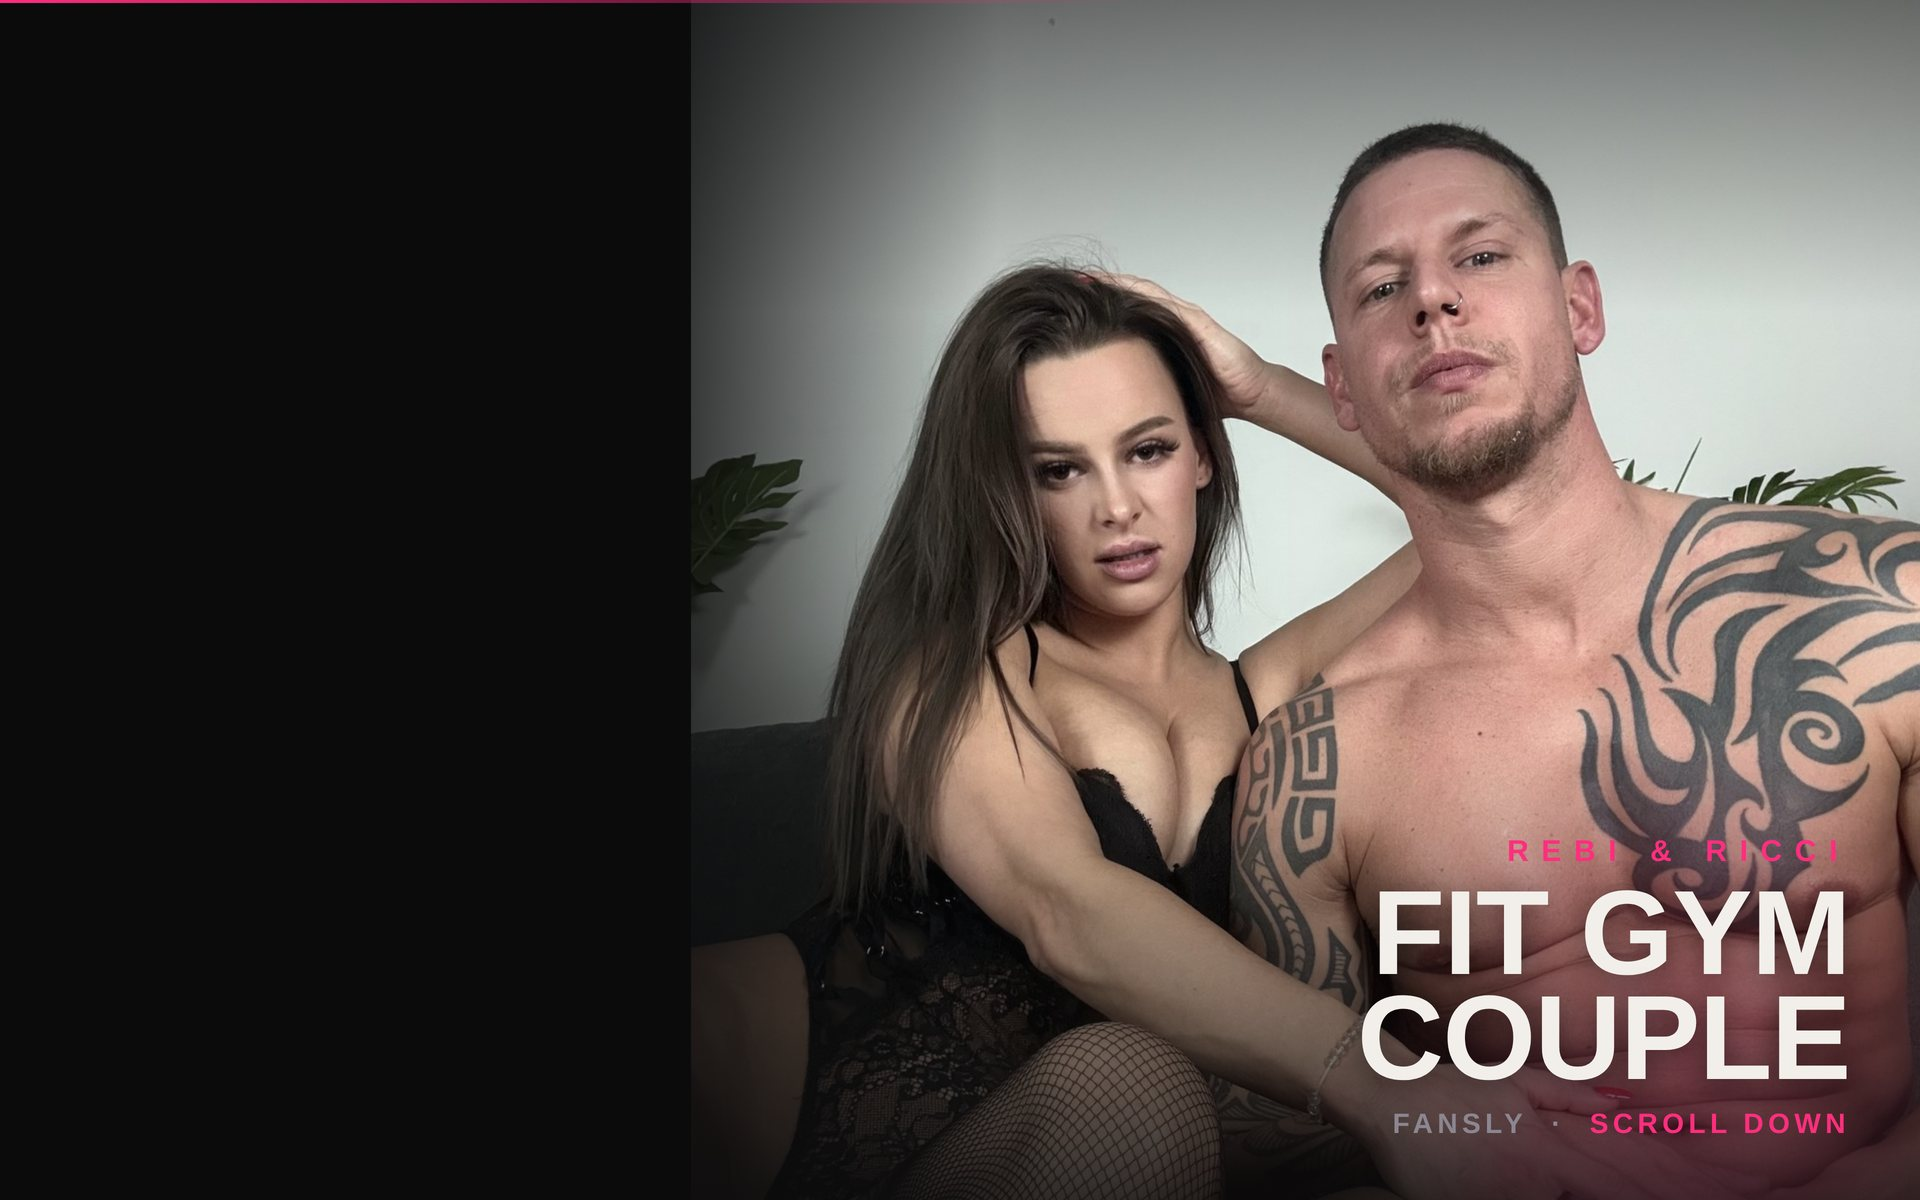
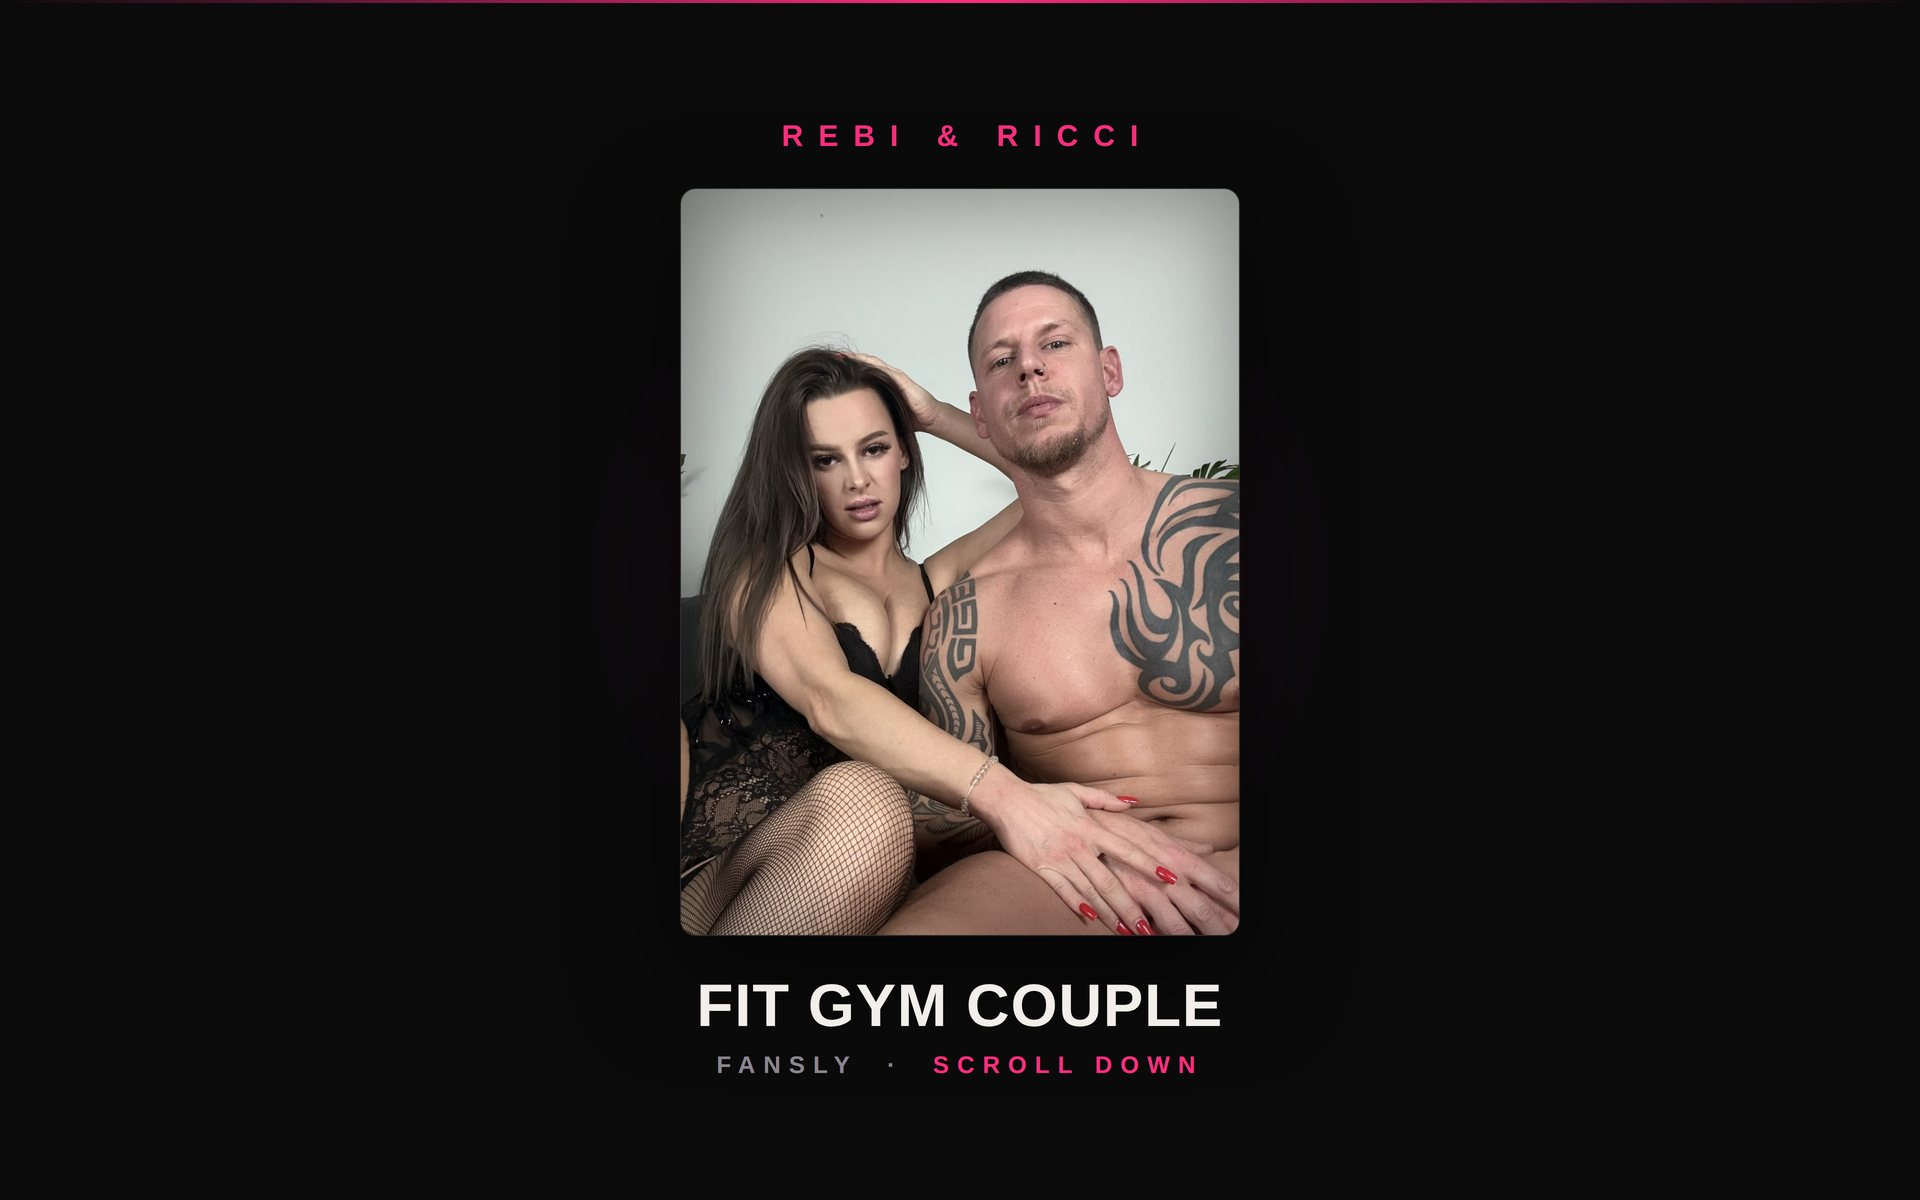
Refine 3-block bio: centered hero card, lighter block 2, cleaner layout
Claude-Session: https://claude.ai/code/session_01RtbiUYFNdswaq59EqqYNLn

diff --git a/fg-solo.html b/fg-solo.html
@@ -3,28 +3,29 @@
 <link rel="preconnect" href="https://fonts.googleapis.com"><link rel="preconnect" href="https://fonts.gstatic.com" crossorigin>
 <link href="https://fonts.googleapis.com/css2?family=Barlow+Condensed:wght@500;600;700&family=Archivo:wght@400;500;600&display=swap" rel="stylesheet">
 <style>
-  :root{--panel:#0B0B0C;--line:#232326;--warm:#F2EFEA;--mute:#8b8690;--hot:#FF2E7E;}
+  :root{--warm:#F2EFEA;--mute:#8b8690;--hot:#FF2E7E;--line:rgba(242,239,231,.12);}
   *{box-sizing:border-box;margin:0;padding:0;}
-  .bar{width:1920px;height:980px;display:flex;background:var(--panel);overflow:hidden;font-family:'Archivo',sans-serif;color:var(--warm);}
-  .phwrap{flex:0 0 42%;position:relative;}
-  .phwrap img{position:absolute;inset:0;width:100%;height:100%;object-fit:cover;object-position:center 20%;
-    -webkit-mask-image:linear-gradient(270deg,transparent 0%,rgba(0,0,0,.4) 22%,#000 50%);mask-image:linear-gradient(270deg,transparent 0%,rgba(0,0,0,.4) 22%,#000 50%);}
-  .txt{flex:1;padding:82px 300px 82px 70px;display:flex;flex-direction:column;justify-content:center;}
-  .eyebrow{font-family:'Barlow Condensed',sans-serif;font-weight:600;font-size:26px;letter-spacing:.36em;text-transform:uppercase;color:var(--hot);margin-bottom:22px;}
-  h1{font-family:'Barlow Condensed',sans-serif;font-weight:700;font-size:92px;line-height:.94;letter-spacing:-.01em;text-transform:uppercase;}
-  .handle{margin-top:26px;font-family:'Barlow Condensed',sans-serif;font-weight:700;font-size:34px;letter-spacing:.02em;color:var(--warm);}
-  .handle span{color:var(--mute);font-weight:600;font-size:23px;letter-spacing:.16em;text-transform:uppercase;display:block;margin-bottom:4px;}
-  .tap{margin-top:22px;display:inline-flex;align-items:center;gap:12px;align-self:flex-start;background:var(--hot);color:#0B0B0C;font-family:'Barlow Condensed',sans-serif;font-weight:700;font-size:28px;letter-spacing:.08em;text-transform:uppercase;padding:16px 30px;border-radius:8px;}
-  .sched{margin-top:44px;border-top:1px solid var(--line);padding-top:30px;}
-  .sched .lab{font-family:'Barlow Condensed',sans-serif;font-weight:600;font-size:24px;letter-spacing:.28em;text-transform:uppercase;color:var(--hot);margin-bottom:20px;}
-  .sched .row{display:flex;justify-content:space-between;align-items:baseline;padding:12px 0;border-bottom:1px solid var(--line);}
+  /* block 3 — stays on black */
+  .bar{width:1920px;height:980px;display:flex;align-items:stretch;background:#0B0B0C;font-family:'Archivo',sans-serif;color:var(--warm);}
+  .media{flex:0 0 40%;padding:70px 40px 70px 120px;display:flex;}
+  .card{flex:1;position:relative;border-radius:18px;overflow:hidden;border:1px solid rgba(242,239,231,.12);box-shadow:0 40px 90px rgba(0,0,0,.6);}
+  .card .ph{position:absolute;inset:0;background:url('assets/bio/solo-src.jpg') center 18%/cover no-repeat;}
+  .txt{flex:1;padding:92px 300px 92px 76px;display:flex;flex-direction:column;justify-content:center;}
+  .eyebrow{font-family:'Barlow Condensed',sans-serif;font-weight:600;font-size:25px;letter-spacing:.42em;text-transform:uppercase;color:var(--hot);margin-bottom:26px;}
+  h1{font-family:'Barlow Condensed',sans-serif;font-weight:700;font-size:80px;line-height:.96;text-transform:uppercase;}
+  .handle{margin-top:26px;font-family:'Barlow Condensed',sans-serif;font-weight:700;font-size:36px;letter-spacing:.02em;color:var(--warm);}
+  .handle span{color:var(--mute);font-family:'Barlow Condensed',sans-serif;font-weight:600;font-size:22px;letter-spacing:.22em;text-transform:uppercase;display:block;margin-bottom:6px;}
+  .tap{margin-top:24px;display:inline-flex;align-items:center;gap:12px;align-self:flex-start;background:var(--hot);color:#0B0B0C;font-family:'Barlow Condensed',sans-serif;font-weight:700;font-size:26px;letter-spacing:.12em;text-transform:uppercase;padding:16px 34px;border-radius:999px;}
+  .sched{margin-top:46px;border-top:1px solid var(--line);padding-top:30px;max-width:560px;}
+  .sched .lab{font-family:'Barlow Condensed',sans-serif;font-weight:600;font-size:23px;letter-spacing:.32em;text-transform:uppercase;color:var(--hot);margin-bottom:18px;}
+  .sched .row{display:flex;justify-content:space-between;align-items:baseline;padding:13px 0;border-bottom:1px solid var(--line);}
   .sched .row:last-child{border-bottom:none;}
-  .sched .z{font-family:'Archivo',sans-serif;font-size:25px;color:var(--mute);}
-  .sched .t{font-family:'Barlow Condensed',sans-serif;font-weight:600;font-size:32px;letter-spacing:.04em;color:var(--warm);}
+  .sched .z{font-family:'Archivo',sans-serif;font-size:24px;color:var(--mute);}
+  .sched .t{font-family:'Barlow Condensed',sans-serif;font-weight:600;font-size:31px;letter-spacing:.04em;color:var(--warm);}
 </style></head>
 <body>
 <div class="bar">
-  <div class="phwrap"><img src="assets/bio/solo-src.jpg"></div>
+  <div class="media"><div class="card"><div class="ph"></div></div></div>
   <div class="txt">
     <div class="eyebrow">Just Rebi</div>
     <h1>Solo on<br>Fansly</h1>

diff --git a/fg-love.html b/fg-love.html
@@ -3,21 +3,26 @@
 <link rel="preconnect" href="https://fonts.googleapis.com"><link rel="preconnect" href="https://fonts.gstatic.com" crossorigin>
 <link href="https://fonts.googleapis.com/css2?family=Barlow+Condensed:wght@500;600;700&family=Archivo:wght@400;500;600&display=swap" rel="stylesheet">
 <style>
-  :root{--panel:#0B0B0C;--line:#232326;--warm:#F2EFEA;--mute:#8b8690;--hot:#FF2E7E;}
+  :root{--warm:#F2EFEA;--mute:#9a94a0;--hot:#FF2E7E;--line:rgba(242,239,231,.12);}
   *{box-sizing:border-box;margin:0;padding:0;}
-  .bar{width:1920px;height:980px;display:flex;background:var(--panel);overflow:hidden;font-family:'Archivo',sans-serif;color:var(--warm);}
-  .txt{flex:0 0 54%;padding:88px 70px 88px 300px;display:flex;flex-direction:column;justify-content:center;}
-  .eyebrow{font-family:'Barlow Condensed',sans-serif;font-weight:600;font-size:26px;letter-spacing:.36em;text-transform:uppercase;color:var(--hot);margin-bottom:22px;}
-  h1{font-family:'Barlow Condensed',sans-serif;font-weight:700;font-size:96px;line-height:.94;letter-spacing:-.01em;text-transform:uppercase;}
-  .loves{list-style:none;margin-top:34px;}
-  .loves li{display:flex;gap:18px;align-items:baseline;padding:13px 0;font-family:'Barlow Condensed',sans-serif;font-weight:500;font-size:36px;line-height:1.2;color:#d8d4dc;}
-  .loves li::before{content:"";flex:none;width:12px;height:12px;border-radius:50%;background:var(--hot);transform:translateY(-6px);}
-  .handle{margin-top:38px;font-family:'Barlow Condensed',sans-serif;font-weight:700;font-size:34px;letter-spacing:.02em;color:var(--warm);}
-  .handle span{color:var(--mute);font-weight:600;font-size:24px;letter-spacing:.16em;text-transform:uppercase;display:block;margin-bottom:4px;}
-  .tap{margin-top:26px;display:inline-flex;align-items:center;gap:12px;align-self:flex-start;background:var(--hot);color:#0B0B0C;font-family:'Barlow Condensed',sans-serif;font-weight:700;font-size:28px;letter-spacing:.08em;text-transform:uppercase;padding:16px 30px;border-radius:8px;}
-  .phwrap{flex:1;position:relative;}
-  .phwrap img{position:absolute;inset:0;width:100%;height:100%;object-fit:cover;object-position:center 22%;
-    -webkit-mask-image:linear-gradient(90deg,transparent 0%,rgba(0,0,0,.4) 24%,#000 52%);mask-image:linear-gradient(90deg,transparent 0%,rgba(0,0,0,.4) 24%,#000 52%);}
+  /* block 2 — a touch lighter panel than the black hero */
+  .bar{width:1920px;height:980px;display:flex;align-items:stretch;
+    background:linear-gradient(135deg,#1b1922 0%,#141218 58%,#101015 100%);
+    font-family:'Archivo',sans-serif;color:var(--warm);}
+  .txt{flex:0 0 52%;padding:96px 80px 96px 300px;display:flex;flex-direction:column;justify-content:center;}
+  .eyebrow{font-family:'Barlow Condensed',sans-serif;font-weight:600;font-size:25px;letter-spacing:.42em;text-transform:uppercase;color:var(--hot);margin-bottom:26px;}
+  h1{font-family:'Barlow Condensed',sans-serif;font-weight:700;font-size:82px;line-height:.96;letter-spacing:0;text-transform:uppercase;}
+  .loves{list-style:none;margin-top:36px;display:flex;flex-direction:column;gap:6px;}
+  .loves li{display:flex;gap:16px;align-items:baseline;padding:10px 0;font-family:'Archivo',sans-serif;font-weight:400;font-size:29px;line-height:1.35;color:#cfcad4;}
+  .loves li::before{content:"";flex:none;width:7px;height:7px;border-radius:50%;background:var(--hot);transform:translateY(-6px);}
+  .rule{margin:40px 0 30px;height:1px;background:var(--line);max-width:520px;}
+  .handle{font-family:'Barlow Condensed',sans-serif;font-weight:700;font-size:36px;letter-spacing:.02em;color:var(--warm);}
+  .handle span{color:var(--mute);font-family:'Barlow Condensed',sans-serif;font-weight:600;font-size:22px;letter-spacing:.22em;text-transform:uppercase;display:block;margin-bottom:6px;}
+  .tap{margin-top:28px;display:inline-flex;align-items:center;gap:12px;align-self:flex-start;background:var(--hot);color:#0B0B0C;font-family:'Barlow Condensed',sans-serif;font-weight:700;font-size:26px;letter-spacing:.12em;text-transform:uppercase;padding:16px 34px;border-radius:999px;}
+  /* contained photo card, floating on the panel */
+  .media{flex:1;padding:70px 80px 70px 40px;display:flex;}
+  .card{flex:1;position:relative;border-radius:18px;overflow:hidden;border:1px solid rgba(242,239,231,.12);box-shadow:0 40px 90px rgba(0,0,0,.55);}
+  .card .ph{position:absolute;inset:0;background:url('assets/bio/hero-src.jpg') center 20%/cover no-repeat;}
 </style></head>
 <body>
 <div class="bar">
@@ -29,9 +34,10 @@
       <li>We love trying out your fantasies.</li>
       <li>We love fucking hard in front of you.</li>
     </ul>
+    <div class="rule"></div>
     <div class="handle"><span>Our Fansly — the two of us</span>dreamcouple69</div>
     <div class="tap">Click here to open our Fansly</div>
   </div>
-  <div class="phwrap"><img src="assets/bio/hero-src.jpg"></div>
+  <div class="media"><div class="card"><div class="ph"></div></div></div>
 </div>
 </body></html>

diff --git a/bg-main.html b/bg-main.html
@@ -5,39 +5,30 @@
 <style>
   :root{--hot:#FF2E7E;--warm:#F2EFEA;--mute:#8b8690;}
   *{box-sizing:border-box;margin:0;padding:0;}
-  #bg{position:relative;width:1920px;height:1200px;background:#0B0B0C;overflow:hidden;font-family:'Archivo',sans-serif;}
-  /* couple photo occupies the right ~64%; left 36% stays pure black for CB's labels */
-  .photo{position:absolute;top:0;bottom:0;right:0;width:64%;
-    background:url('assets/bio/couple-src.jpg') center 16%/cover no-repeat;}
-  /* soft fade from the black label column into the photo (no hard seam) */
-  .seam{position:absolute;top:0;bottom:0;left:30%;width:22%;
-    background:linear-gradient(90deg,#0B0B0C 0%,rgba(11,11,12,.6) 40%,rgba(11,11,12,0) 100%);}
-  /* gentle top + bottom vignette to seat the brand and labels */
-  .vig{position:absolute;inset:0;background:
-    linear-gradient(180deg,rgba(11,11,12,.5) 0%,rgba(11,11,12,0) 26%,rgba(11,11,12,0) 62%,rgba(11,11,12,.85) 100%);}
-  .glow{position:absolute;right:-160px;bottom:-220px;width:760px;height:760px;border-radius:50%;
-    background:radial-gradient(circle,rgba(255,46,126,.20) 0%,rgba(255,46,126,0) 62%);}
-  .edge{position:absolute;left:0;right:0;top:0;height:3px;background:linear-gradient(90deg,var(--hot),rgba(255,46,126,0) 60%);}
-  .brand{position:absolute;right:70px;bottom:60px;text-align:right;}
-  .brand .ey{font-family:'Barlow Condensed',sans-serif;font-weight:600;font-size:30px;letter-spacing:.42em;
-    text-transform:uppercase;color:var(--hot);margin-bottom:12px;}
-  .brand .nm{font-family:'Barlow Condensed',sans-serif;font-weight:700;font-size:120px;line-height:.88;
-    letter-spacing:-.01em;text-transform:uppercase;color:var(--warm);text-shadow:0 6px 30px rgba(0,0,0,.55);}
-  .brand .tag{margin-top:16px;font-family:'Barlow Condensed',sans-serif;font-weight:600;font-size:28px;
-    letter-spacing:.16em;text-transform:uppercase;color:var(--mute);}
-  .brand .tag b{color:var(--hot);font-weight:700;}
+  #bg{position:relative;width:1920px;height:1200px;background:#0B0B0C;overflow:hidden;font-family:'Archivo',sans-serif;
+    display:flex;flex-direction:column;align-items:center;justify-content:center;}
+  .edge{position:absolute;left:0;right:0;top:0;height:3px;background:linear-gradient(90deg,rgba(255,46,126,0),var(--hot) 50%,rgba(255,46,126,0));}
+  .glow{position:absolute;left:50%;top:48%;width:900px;height:900px;transform:translate(-50%,-50%);
+    background:radial-gradient(circle,rgba(255,46,126,.14) 0%,rgba(255,46,126,0) 60%);}
+  .ey{position:relative;font-family:'Barlow Condensed',sans-serif;font-weight:600;font-size:30px;letter-spacing:.5em;
+    text-transform:uppercase;color:var(--hot);margin-bottom:34px;padding-left:.5em;}
+  .card{position:relative;width:560px;height:748px;border-radius:16px;overflow:hidden;
+    border:1px solid rgba(242,239,231,.14);box-shadow:0 40px 100px rgba(0,0,0,.6);}
+  .card::after{content:"";position:absolute;inset:0;box-shadow:inset 0 0 90px 10px rgba(0,0,0,.35);}
+  .card .ph{position:absolute;inset:0;background:url('assets/bio/couple-src.jpg') center 18%/cover no-repeat;}
+  .nm{position:relative;margin-top:40px;font-family:'Barlow Condensed',sans-serif;font-weight:700;font-size:60px;
+    line-height:1;letter-spacing:.02em;text-transform:uppercase;color:var(--warm);text-align:center;}
+  .tag{position:relative;margin-top:16px;font-family:'Barlow Condensed',sans-serif;font-weight:600;font-size:24px;
+    letter-spacing:.34em;text-transform:uppercase;color:var(--mute);text-align:center;}
+  .tag b{color:var(--hot);font-weight:700;}
 </style></head>
 <body>
 <div id="bg">
-  <div class="photo"></div>
-  <div class="seam"></div>
-  <div class="vig"></div>
-  <div class="glow"></div>
   <div class="edge"></div>
-  <div class="brand">
-    <div class="ey">Rebi &amp; Ricci</div>
-    <div class="nm">Fit gym<br>couple</div>
-    <div class="tag">Fansly &nbsp;·&nbsp; <b>scroll down</b></div>
-  </div>
+  <div class="glow"></div>
+  <div class="ey">Rebi &amp; Ricci</div>
+  <div class="card"><div class="ph"></div></div>
+  <div class="nm">Fit gym couple</div>
+  <div class="tag">Fansly &nbsp;·&nbsp; <b>scroll down</b></div>
 </div>
 </body></html>
